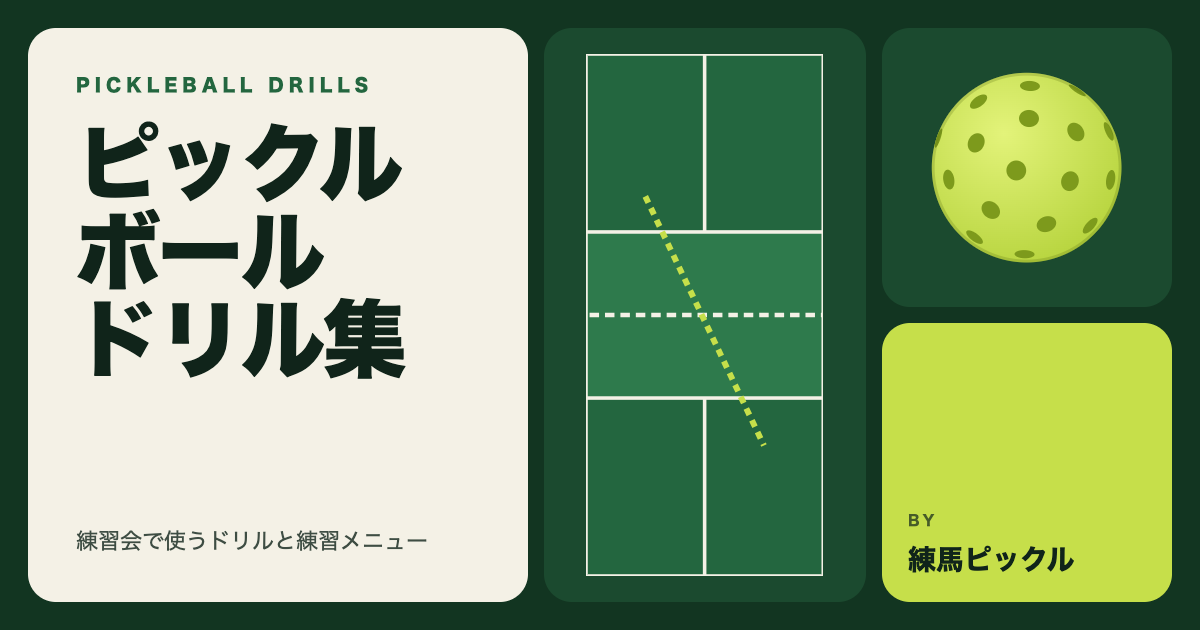
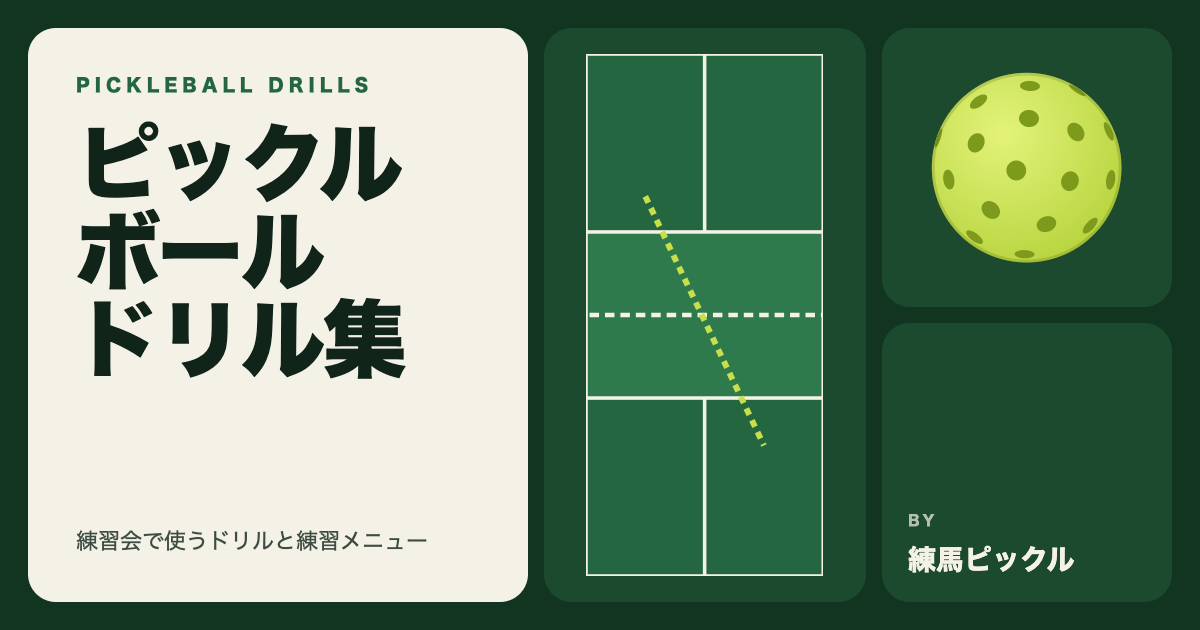
Site share preview: credit tile in deep green with light text; lime only on the ball and court line
Claude-Session: https://claude.ai/code/session_013HpVCq95JLREtWQF64J4S6

Changed region(s): [[0.7092, 0.5127, 0.9867, 0.9651]]

diff --git a/docs/decisions.md b/docs/decisions.md
@@ -87,3 +87,4 @@
 - ファビコンは、図と同じ黄色い穴あきボール（public/favicon.svg）。ホーム画面・ブックマーク用の apple-touch-icon（180×180）と、トップページ・練習メニュー用の共通のプレビュー画像（public/og/site.png）も `npm run og` で作る。
 - 共有画像のデザインは Bento Grid（角の丸いタイル）。配色は深い緑（練馬ピックルのロゴの緑）×生成り×ライム（src/config/og.ts）。練馬ピックルは右下に小さく「BY 練馬ピックル」だけ（ロゴ画像は主張が強すぎるので使わない。書き手の判断）。アイコンは、屋外用40穴のボールを少し傾けて見た絵（public/favicon.svg）。コートの図で動くボールは黄色のまま。
 - ディンク（dnk）の下書きを dnk001〜dnk005 から始めた。5つとも、想定する試合の場面とその場面でやりたいことを「4人がキッチンラインに並んだディンクの打ち合い」にそろえ、練習の目的でドリルごとに書き分ける。ストレートディンクとクロスディンクは、どちらの打ち方でもよい「自由」を図の派生形にした（準備運動で打ち方を決めずに使うため）。球を2つ・4つ同時に使うドリルは、同じ線に名前が重なるので、名前を1本の線にだけ付ける（ほかは `label: ""`）。
+- 共通の共有画像（site.png）の右下のタイル（BY 練馬ピックル）を、ライムの塗りから、ボールのタイルと同じ濃い緑に白い文字へ変えた。ライムは1割だけ使う差し色なのに、控えめにしたい名前のタイルが題名の次に目立っていたため（書き手の意見）。ライムはボールとコートの点線だけに使う。
